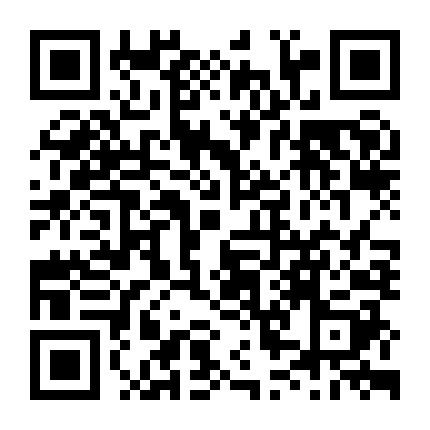
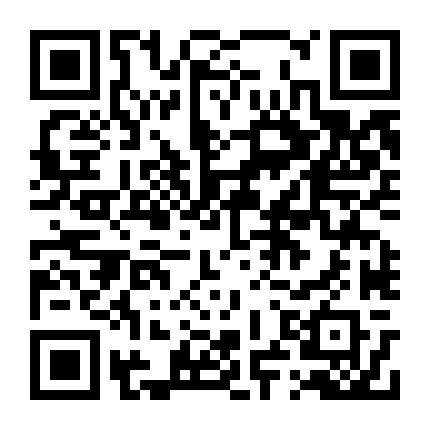
Solve JSON dump support Chinese

Changed region(s): [[0.0605, 0.0605, 0.9372, 0.9372]]

diff --git a/dgideas/1.py b/dgideas/1.py
@@ -61,7 +61,7 @@ def wxSendMsg(wxToken, sendTo, sendMessage):
 		},
 		'Scene': 0
 	}
-	return urllib.request.urlopen(sendMessageURL, json.dumps(postData).encode('utf-8')).read().decode('utf-8')
+	return urllib.request.urlopen(sendMessageURL, json.dumps(postData, ensure_ascii=False).encode('utf-8')).read().decode('utf-8')
 
 def main():
 	cj = http.cookiejar.CookieJar()
